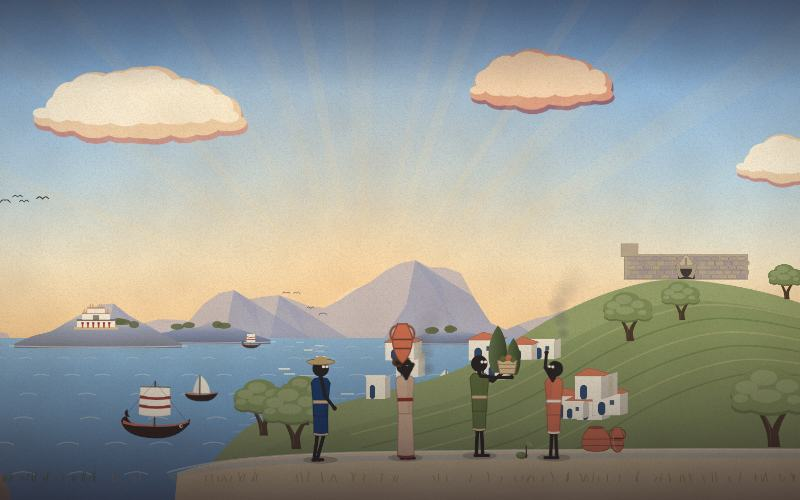
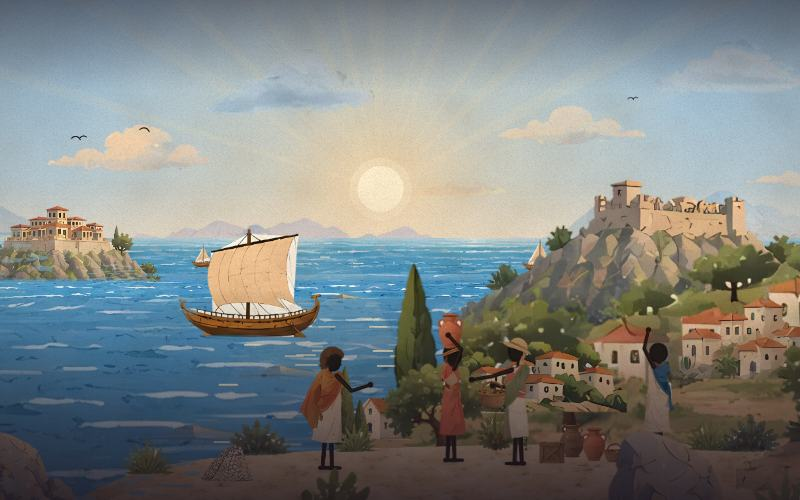
Chapter 1: illustrated, asset-driven scene with hybrid cutout rig
Replace the procedural Chapter 1 art with cut-outs from the four approved
production sheets, layered on 13 parallax planes (20 depth bands) and animated
in code. The player, UI, captions, timing and chapters 2-8 are unchanged.

- tools/assets: crop, Real-ESRGAN x4, background keying, costume arm in-paint
  and waist split, synthesised sand tile; PNG masters + runtime WebP under
  assets/global and assets/chapter-01, manifest + generated import map
- src/art/cutout.js: illustrated head/costume/props on a skeleton with tapered
  brush limbs; 8-key-pose walk with heel/toe roll, planted feet, hip bob,
  counter-swing, head stabilisation, lagging skirt
- src/scenes/birth.js: dawn bay to settlement life to the closing wide on
  Crete and Mycenae; cloud drift, sea shimmer, boat bob, sail breathe, sway,
  chimney smoke, gulls; chapter art preloaded before mount
- player: await a chapter's preload() and warm Chapter 1 on the title screen
- MISSING_ASSETS.md, README pipeline docs, QA tools (filmstrip, figstrip, fps,
  probe), Chapter 1 thumbnail, WebP support in the artifact packer

Claude-Session: https://claude.ai/code/session_01TPCe3NQpYd9FFqknt9SLFh

diff --git a/src/scenes/birth.js b/src/scenes/birth.js
@@ -69,7 +69,7 @@ export function build(sc) {
   // ================================================================ 1 sky (code: light only)
   const skyG = S.grad([[0, '#6D9CC6'], [0.5, '#A7C6DA'], [0.86, '#EAD9C0'], [1, '#F4E2C4']]);
   add(skyL, `<defs>${skyG.def}</defs><rect x="-1600" y="-700" width="4800" height="1700" fill="${skyG.ref}"/>`);
-  const dawnG = S.grad([[0, '#28305F'], [0.42, '#6E5A8A'], [0.74, '#D98E7A'], [0.9, '#F2B07E'], [1, '#F7CB8E']]);
+  const dawnG = S.grad([[0, '#343B6E'], [0.4, '#7A6390'], [0.7, '#E0977A'], [0.88, '#F5B97F'], [1, '#FAD498']]);
   const dawn = add(skyL, `<g><defs>${dawnG.def}</defs><rect x="-1600" y="-700" width="4800" height="1700" fill="${dawnG.ref}"/></g>`);
   const sunG = add(skyL, `<g>${S.sun({ x: 780, y: 330, r: 46, glowR: 640, core: '#FFF2D2', glow: '#FFD8A0' })}${S.rays({ x: 780, y: 330, n: 13, spread: 140, dir: -90, len: 1500, op: 0.16 })}</g>`);
 
@@ -156,11 +156,24 @@ export function build(sc) {
 
   // ================================================================ 9 the merchant ship (hull rocks, sail breathes)
   const shipW = 270;
-  const shipEl = add(shipL, `<g><g class="hull">${sprite('ship_merchant', { x: 0, y: 0, w: shipW, an: 'water' })}</g>
+  // the sail breathes: a copy of the ship art clipped to the sail outline, scaled about the mast
+  const sh = asset('ship_merchant');
+  const sailPts = [0, 1, 2, 3, 4, 5, 6].map((i) => sh.an['sail' + i].join(' ')).join(' ');
+  const shipH = (shipW * sh.h) / sh.w;
+  const sx0 = -sh.an.water[0] * shipW, sy0 = -sh.an.water[1] * shipH;
+  const mastX = sx0 + sh.an.mast[0] * shipW, mastY = sy0 + sh.an.mast[1] * shipH;
+  const shipEl = add(shipL, `<g><defs><clipPath id="sailClip" clipPathUnits="objectBoundingBox"><polygon points="${sailPts.split(' ').map(Number).reduce((a, v, i) => a + (i % 2 ? ',' : ' ') + v, '').trim()}"/></clipPath></defs>
+    <g class="hull">${sprite('ship_merchant', { x: 0, y: 0, w: shipW, an: 'water' })}
+      <g class="sail"><image href="${sh.src}" x="${sx0.toFixed(2)}" y="${sy0.toFixed(2)}" width="${shipW}" height="${shipH.toFixed(2)}" preserveAspectRatio="none" clip-path="url(#sailClip)"/></g></g>
     <g opacity=".5">${sprite('wave_overlay', { x: -shipW * 0.62, y: 6, w: 150 })}</g></g>`);
   const hull = shipEl.querySelector('.hull');
+  const sail = shipEl.querySelector('.sail');
   const SHIP_Y = 610;
-  gsap.set(shipEl, { x: -340, y: SHIP_Y });
+  gsap.set(shipEl, { x: -160, y: SHIP_Y });
+  sc.tick((t) => {
+    const k = 1 + 0.018 * (0.5 + 0.5 * Math.sin(t * 1.15)) + 0.006 * Math.sin(t * 2.7);
+    setAttr(sail, 'transform', `translate(${mastX.toFixed(2)} ${mastY.toFixed(2)}) scale(${k.toFixed(4)} ${(1 + (k - 1) * 0.35).toFixed(4)}) translate(${(-mastX).toFixed(2)} ${(-mastY).toFixed(2)})`);
+  });
   sc.tick((t) => setAttr(hull, 'transform', `translate(0 ${(Math.sin(t * 0.95) * 2.4).toFixed(2)}) rotate(${(Math.sin(t * 0.75 + 0.6) * 1.4).toFixed(2)})`));
 
   // ================================================================ 10 Mycenae on the mainland summit
@@ -287,20 +300,20 @@ export function build(sc) {
   cam.x = 720; cam.y = 560; cam.z = 1.3;
   sc.pan(0, 8, { x: 820, y: 520, z: 1.14 }, 'power2.out');
   sc.pan(8, 8, { x: 930, y: 505 }, 'sine.inOut');
-  sc.pan(16, 8.5, { x: 1430, y: 500, z: 1.12 }, 'power2.inOut');
+  sc.pan(15.6, 7.4, { x: 1430, y: 500, z: 1.12 }, 'power2.inOut');
   sc.pan(24.5, 9.5, { x: 1170, y: 430, z: 0.9 }, 'power2.inOut');
 
   // dawn → day: tint lifts, violet sky cross-fades to day, sun climbs, haze burns off
-  gsap.set(tint, { opacity: 0.55 });
-  tl.to(tint, { opacity: 0, duration: 10, ease: 'power1.inOut' }, 0);
+  gsap.set(tint, { opacity: 0.3 });
+  tl.to(tint, { opacity: 0, duration: 8, ease: 'power1.inOut' }, 0);
   tl.fromTo(dawn, { opacity: 1 }, { opacity: 0, duration: 11, ease: 'power1.inOut' }, 0);
   tl.fromTo(sunG, { y: 150 }, { y: 0, duration: 10, ease: 'power2.out' }, 0.2);
-  tl.fromTo(sunPath, { opacity: 0.9 }, { opacity: 0.35, duration: 12, ease: 'sine.inOut' }, 0);
-  tl.fromTo(glit, { opacity: 0.3 }, { opacity: 1, duration: 5, ease: 'power1.in' }, 3);
+  tl.fromTo(sunPath, { opacity: 1 }, { opacity: 0.4, duration: 13, ease: 'sine.inOut' }, 0);
+  tl.fromTo(glit, { opacity: 0.55 }, { opacity: 1, duration: 4, ease: 'power1.in' }, 1.5);
   tl.fromTo(mist, { opacity: 1 }, { opacity: 0.18, duration: 14, ease: 'power1.inOut' }, 1);
 
   // the merchant ship crosses the bay
-  tl.to(shipEl, { x: 830, y: SHIP_Y + 22, duration: 16, ease: 'sine.inOut' }, 5.5);
+  tl.fromTo(shipEl, { x: -160, y: SHIP_Y }, { x: 830, y: SHIP_Y + 22, duration: 17.5, ease: 'sine.inOut' }, 4.0);
 
   // watchers: the elder points out to sea, the child looks up and around
   elder.go(tl, 3.4, 1.3, { armF: 82, elbowF: 6, lean: 3, head: -3 });
@@ -320,21 +333,21 @@ export function build(sc) {
   farmer.go(tl, 21.3, 1.0, { armF: 80, elbowF: 8, head: -3 });
   farmer.go(tl, 25.2, 1.0, { armF: 8, elbowF: 14, head: 0 });
   // the trader comes ashore from the landing and gestures as he talks
-  tl.set(trader.p, { opacity: 0 }, 0);
-  tl.to(trader.p, { opacity: 1, duration: 0.5, ease: 'none' }, 20.2);
+  trader.p.opacity = 0;
+  tl.fromTo(trader.p, { opacity: 0 }, { opacity: 1, duration: 0.5, ease: 'none', immediateRender: false }, 20.2);
   trader.walk(tl, 20.3, 1300, 4.2, { ease: 'sine.out' });
   trader.go(tl, 24.6, 0.9, 'talk');
   tl.to(trader.p, { elbowF: 92, duration: 0.42, yoyo: true, repeat: 5, ease: 'sine.inOut' }, 25.5);
   trader.go(tl, 28.4, 1.0, { armF: 10, elbowF: 18, lean: 1 });
   // the planter kneels to set a sapling, stands, and waves to the ship
   planter.set({ armF: 20, elbowF: 18, armB: 14, elbowB: 18 });
-  planter.go(tl, 15.8, 1.6, 'crouch');
-  tl.to(planter.p, { armF: 70, elbowF: 40, duration: 0.5, yoyo: true, repeat: 3, ease: 'sine.inOut' }, 17.6);
-  planter.go(tl, 21.2, 1.4, { legF: 3, kneeF: 0, footF: 0, legB: -3, kneeB: 0, footB: 0, lean: 0, head: 0, armF: 8, elbowF: 16, armB: -6, elbowB: 12 });
-  planter.go(tl, 22.5, 0.8, 'wave');
-  tl.to(planter.p, { elbowF: 58, duration: 0.42, yoyo: true, repeat: 5, ease: 'sine.inOut' }, 23.3);
-  planter.go(tl, 26.0, 0.9, { armF: 8, elbowF: 16, lean: 0, head: 0 });
-  tl.fromTo(sapling.firstElementChild, { scale: 0.2, opacity: 0, transformOrigin: '18% 92%' }, { scale: 1, opacity: 1, duration: 1.6, ease: 'back.out(1.8)' }, 18.4);
+  planter.go(tl, 18.6, 1.4, 'crouch');
+  tl.to(planter.p, { armF: 70, elbowF: 40, duration: 0.45, yoyo: true, repeat: 3, ease: 'sine.inOut' }, 20.0);
+  planter.go(tl, 22.2, 1.2, { legF: 3, kneeF: 0, footF: 0, legB: -3, kneeB: 0, footB: 0, lean: 0, head: 0, armF: 8, elbowF: 16, armB: -6, elbowB: 12 });
+  planter.go(tl, 23.4, 0.7, 'wave');
+  tl.to(planter.p, { elbowF: 58, duration: 0.4, yoyo: true, repeat: 5, ease: 'sine.inOut' }, 24.1);
+  planter.go(tl, 26.6, 0.9, { armF: 8, elbowF: 16, lean: 0, head: 0 });
+  tl.fromTo(sapling.firstElementChild, { scale: 0.2, opacity: 0, transformOrigin: '18% 92%' }, { scale: 1, opacity: 1, duration: 1.6, ease: 'back.out(1.8)', immediateRender: true }, 20.6);
 
   // closing wide: the first palace worlds
   const lblC = add(crete, S.mapLabel({ x: creteX, y: creteY - 150, dx: 0, dy: -70, title: 'CRETE', note: 'The Minoans', size: 24 }));

diff --git a/src/art/library.gen.js b/src/art/library.gen.js
@@ -165,7 +165,7 @@ export const LIB = {
   sea_band_far: { src: a45, w: 902, h: 144, path: 'global/environment/sea_band_far' },
   sea_tile_base: { src: a46, w: 3072, h: 80, path: 'global/environment/sea_tile_base' },
   ship_boat_small: { src: a47, w: 459, h: 429, path: 'global/environment/ship_boat_small', an: {"water":[0.5098,0.9557]} },
-  ship_merchant: { src: a48, w: 670, h: 515, path: 'global/environment/ship_merchant', an: {"mast":[0.4866,0.1417],"water":[0.4985,0.9573]} },
+  ship_merchant: { src: a48, w: 670, h: 515, path: 'global/environment/ship_merchant', an: {"mast":[0.4866,0.1417],"sail0":[0.2179,0.2272],"sail1":[0.4866,0.1417],"sail2":[0.8388,0.0485],"sail3":[0.8269,0.1417],"sail4":[0.803,0.7476],"sail5":[0.5104,0.7786],"sail6":[0.2358,0.7709],"water":[0.4985,0.9573]} },
   shrub_a: { src: a49, w: 311, h: 173, path: 'global/environment/shrub_a' },
   shrub_b: { src: a50, w: 246, h: 192, path: 'global/environment/shrub_b' },
   shrub_c: { src: a51, w: 177, h: 192, path: 'global/environment/shrub_c' },

diff --git a/src/art/cutout.js b/src/art/cutout.js
@@ -88,7 +88,7 @@ export const CPOSES = {
   wave:    { armF: 150, elbowF: 24, armB: -6, elbowB: 12, lean: -2, head: -6 },
   talk:    { armF: 46, elbowF: 64, armB: 10, elbowB: 34, lean: 2, head: 1 },
   offer:   { armF: 62, elbowF: 58, armB: 52, elbowB: 62, lean: 4, head: 4 },
-  carryHead: { armF: 168, elbowF: 132, armB: -6, elbowB: 14, lean: -1, head: 0 },
+  carryHead: { armF: 158, elbowF: 64, armB: -6, elbowB: 14, lean: -1, head: 0 },
   carryHip:  { armB: 36, elbowB: 62 },
   sit:     { legF: 86, kneeF: 84, footF: 0, legB: 80, kneeB: 88, footB: 0, armF: 34, elbowF: 66, armB: 26, elbowB: 70, lean: 4, head: 2, drop: 31, plant: 0 },
   crouch:  { legF: 62, kneeF: 104, footF: -6, legB: -2, kneeB: 96, footB: 34, lean: 34, head: 16, armF: 48, elbowF: 18, armB: 30, elbowB: 26, drop: 0, plant: 1 },

diff --git a/tools/assets/extract_ch01.py b/tools/assets/extract_ch01.py
@@ -154,7 +154,7 @@ def main():
     # ships (sheet 1, checker background; sails forced in with polygons)
     piece('global/environment/ship_merchant', 1, (1060, 450, 176, 134), thr=9, holes=None, rt=1.0,
           add=[[(1101, 481), (1146, 470), (1205, 458), (1203, 470), (1199, 548), (1150, 552), (1104, 551)]],
-          anchors={'water': (1148, 575), 'mast': (1146, 470)}, note='sheet1 merchant ship')
+          anchors={'water': (1148, 575), 'mast': (1146, 470), 'sail0': (1101, 481), 'sail1': (1146, 470), 'sail2': (1205, 458), 'sail3': (1203, 470), 'sail4': (1199, 548), 'sail5': (1150, 552), 'sail6': (1104, 551)}, note='sheet1 merchant ship (sail* = sail outline for the billow clip)')
     piece('global/environment/ship_boat_small', 1, (1240, 468, 124, 114), thr=9, holes=None, rt=1.0,
           anchors={'water': (1303, 575)}, note='sheet1 fishing boat')
 

diff --git a/MISSING_ASSETS.md b/MISSING_ASSETS.md
@@ -1,0 +1,96 @@
+# Missing assets — Chapter 1 vertical slice
+
+These are the assets Chapter 1 needs that the four approved production sheets do not supply cleanly. Each one is
+currently covered by a fallback built from the supplied art (noted per item); nothing falls back to procedural drawing.
+
+Conventions follow the production manifest: PNG masters with straight (unpremultiplied) alpha, sRGB, lit from the upper
+left like the sheets, painted in the sheets' gouache style and palette (ivory, parchment, sandstone, terracotta, muted red,
+bronze, olive, deep blue, charcoal). Sizes are pixels at 2× design scale (1 design unit = 2 px), the size needed for
+sharp playback on retina screens with the camera pushed in.
+
+---
+
+## 1. Market stall
+
+| | |
+|---|---|
+| **Files** | `assets/chapter-01/props/ch01_prop_market_stall_frame.png`, `assets/chapter-01/props/ch01_prop_market_stall_awning.png` |
+| **Dimensions** | 1400 × 1100 each, on one shared registered canvas |
+| **Transparency** | Yes, fully transparent background, no cast shadow baked in |
+| **Visual description** | The stall from Keyframe 02 (Settlement Life). A front three-quarter view. It has four rough wooden poles, a plank table, a striped linen awning in ivory and faded terracotta with a slight sag and frayed front edge, two baskets of olives and figs on the table, and an amphora and a pithos standing beneath. |
+| **Where it appears** | On the right beach, behind the trader (world x ≈ 1250, ground y ≈ 870), during the "Fishers, farmers and traders…" beat (16.6–24.6 s) and in the closing wide shot. |
+| **Rigging needed** | Two layers. The frame (poles, table, goods) is static. The awning pivots along its top back edge, so code can add a slow wind sway (±1.5°) and a slight scale-Y breathing. |
+| **Poses / states** | Awning `rest` plus awning `billow` (lifted by a gust) for a cross-fade. |
+| **Current fallback** | A loose prop group (pithos, amphora, crate, basket) on the sand. |
+
+## 2. Merchant ship as separate layers
+
+| | |
+|---|---|
+| **Files** | `assets/global/environment/ship_merchant_hull.png`, `ship_merchant_mast.png`, `ship_merchant_sail_rest.png`, `ship_merchant_sail_full.png` |
+| **Dimensions** | 2000 × 1540 each, on one shared registered canvas (same framing as the supplied `ship_merchant`) |
+| **Transparency** | Yes |
+| **Visual description** | The approved merchant ship (sheet 1, "merchant_ship.png"). It has a curved brown hull with a carved stern, a rail of light planks, a single mast and yard, rigging lines, and a large cream square sail with seams. The hull is painted without the sail. The mast and yard are a separate piece. The sail comes in two states: rest (slightly slack, gentle folds) and full (bellied forward with wind, highlights on the curve). |
+| **Where it appears** | Crosses the bay from left to right from 4.0 to 21.5 s and is held in the closing wide shot. The same art will be reused in chapter 5. |
+| **Rigging needed** | Hull: code bob and rock about the waterline (anchor at the waterline centre). Sail: pivots at the yard, cross-fades between rest and full, with a code scale-X billow about the mast. |
+| **Poses / states** | Sail `rest` and `full`. Optional `furled` for the beached state. |
+| **Current fallback** | The single supplied ship image, with a sail "breathe" made from a clipped copy of the same art scaled about the mast. |
+
+## 3. Olive sapling (growth stages)
+
+| | |
+|---|---|
+| **Files** | `assets/global/environment/tree_olive_sapling_01.png`, `_02.png`, `_03.png` |
+| **Dimensions** | 300 × 420 each, same canvas, base anchor at bottom centre |
+| **Transparency** | Yes |
+| **Visual description** | A young olive tree planted in a small mound of freshly dug ochre earth. Stage 01 is a single sprig with four leaves. Stage 02 has a thin twisted stem with 3 small silver-green leaf clusters. Stage 03 is a sapling about 40 cm tall with 6–8 clusters. The style matches the sheets' olive trees: dark olive green leaves with lighter silver-green highlights, and a brown trunk. |
+| **Where it appears** | Planted by the planter on the beach (x ≈ 1846) from 18.6 to 22.4 s, and visible to the end of the chapter. |
+| **Rigging needed** | None. Stages swap in code with a small scale overshoot, plus a code-driven sway pivoting at the base. |
+| **Poses / states** | 3 growth stages. |
+| **Current fallback** | The `olive_branch` prop stood upright and scaled up from the ground. |
+
+## 4. Gull flap cycle
+
+| | |
+|---|---|
+| **File** | `assets/global/fx/birds_gull_sheet.png` (frames in one row) |
+| **Dimensions** | 6 frames × 160 × 80 (sheet 960 × 80) |
+| **Transparency** | Yes |
+| **Visual description** | One dark charcoal gull silhouette in side view in the sheets' brush style. There are 6 frames of one wingbeat: wings high, mid-down, down, mid-up, glide, and glide-tilted. |
+| **Where it appears** | Gulls crossing the sky throughout the chapter (cloud plane). |
+| **Rigging needed** | None. The frames swap at 8–10 fps and code moves each bird along its path. |
+| **Poses / states** | The 6-frame flap cycle. |
+| **Current fallback** | Two of the supplied flock silhouettes alternate as a two-frame flap. |
+
+## 5. Shore foam strip
+
+| | |
+|---|---|
+| **File** | `assets/global/environment/shore_foam_strip.png` |
+| **Dimensions** | 2048 × 128, tiles horizontally |
+| **Transparency** | Yes |
+| **Visual description** | Where the sea meets the sand: a band of wet darker sand fading upward, a broken line of white foam with small lace gaps, and pale turquoise shallow water at the bottom edge. It is painted in the sheets' gouache style. |
+| **Where it appears** | Along the waterline of the right beach and the left headland. |
+| **Rigging needed** | None. Two copies slide slowly against each other in code to animate the foam. |
+| **Poses / states** | One state. Optional second variation for alternation. |
+| **Current fallback** | `wave_overlay` sprites along the waterline, plus a code gradient for wet sand. |
+
+## 6. Native-resolution versions of the large layers
+
+The sheets are about 1500 px wide, so each large layer was cut from a 160–260 px region and upscaled ×4 by the extraction
+tool (`tools/assets`). They read well, but they soften when the camera pushes in on a retina screen. The same approved art
+is needed at native size. Every item below has a transparent background (sea and sand tiles excepted) and must match the
+approved sheet piece exactly in content, so the slice composition stays valid.
+
+| File | Dimensions | Transparency | Visual description (as approved) | Where it appears | Rigging | States |
+|---|---|---|---|---|---|---|
+| `chapter-01/backgrounds/ch01_bg_hillside_terraces.png` | 3600 × 1500 | Yes | Terraced hillside rising to one side: olive and ochre field terraces, three white houses with terracotta roofs, olive trees, a cypress | Right-hand hill behind the beach (hillside plane, parallax 0.74) | None (static) | 1 |
+| `chapter-01/backgrounds/ch01_bg_settlement.png` | 1800 × 700 | Yes | Cluster of white cubic houses with terracotta roofs among olive and bush greenery on a sandy rise | Village on the hill slope (settlement plane, 0.8) | None. Chimney points marked in a note for the smoke emitters | 1 |
+| `chapter-01/props/ch01_prop_mycenae_citadel.png` | 2400 × 1250 | Yes | Cyclopean-walled citadel with towers on a grey rocky summit spotted with green scrub | Mainland summit (Mycenae plane, 0.6). Labelled in the closing wide shot | None | 1 |
+| `chapter-01/props/ch01_prop_crete_island_palace.png` | 2200 × 950 | Yes | Minoan palace (terraced white and ochre blocks, terracotta roofs) on a rocky island with cypresses | Left of the bay (sea plane). Labelled in the closing wide shot | None. Waterline should be soft-edged | 1 |
+| `chapter-01/backgrounds/ch01_bg_beach_right.png` | 2600 × 1100 | Yes | Sandy beach rise with two olive trees, agave and a cypress at the right | Right edge of the beach | None | 1 |
+| `global/environment/mountains_far_soft.png` | 6000 × 360 | Yes | Continuous range of pale lilac-blue mountains with soft ridges | Far mountain plane (0.12) | None. Tiles horizontally | 1 |
+| `global/environment/sea_tile_base.png` | 4096 × 512 | No | Deep Aegean blue water with short white wave strokes, seamless in both axes | Sea plane, stacked in perspective rows | None | 1 |
+| `global/environment/ground_sand_tile.png` | 2048 × 512 | No | Warm sandstone sand with sparse pebbles and dry grass flecks, seamless in both axes | Walkable beach and headland ground | None | 1 |
+| `global/costumes/<costume>_torso.png` and `_skirt.png` for chiton_villager, peplos_villager, chiton_sailor, himation_merchant, himation_elite, chiton_youth | 420 × 1080 per piece, torso and skirt sharing one canvas | Yes | The six costume variations from sheet 4, painted without arms, head or legs. The skirt continues about 30 px up under the torso so the waist seam can swing | All villagers | Torso is rigid. Skirt pivots at the waist (skew/rotate in code). Anchors: neck, shoulders L/R, waist, hem | 1 each |
+| `global/heads/<head>.png` for head_neutral, hair_short, hair_curls, headband, veil, hat_petasos, hat_hood, beard_long | 400 × 600 | Yes | The heads row from sheet 4 (sheet 3 for the beard): charcoal skull with hair or headwear and neck stick, facing right | All villagers | Pivot at the neck point. Skull diameter identical across the set | 1 each |

diff --git a/README.md b/README.md
@@ -38,16 +38,32 @@ npm run build && npm run preview   # production build → http://localhost:4173/
 
 ## How it is built
 
-- **Stack** — Vite, vanilla JS (ES modules), SVG for all art, GSAP for timelines, Canvas 2D for particles, WebAudio for sound. No frameworks, no image files, no audio files.
-- **Assets** — every scene is drawn in code. `src/art/` holds the generators: a jointed **figure rig** (`figure.js`, with walk/run cycles and pose library), a **horse rig** (`horse.js`, with wings for Pegasus), **props**, a **scenery library** (temples, columns, ships, mountains, sea, clouds…) and hand-simplified **map geography** (`geo.js`). Chapter thumbnails are rendered from the live scenes (`npm run thumbs`).
+- **Stack** — Vite, vanilla JS (ES modules), SVG for all art, GSAP for timelines, Canvas 2D for particles, WebAudio for sound. No frameworks and no audio files. Chapter 1 uses illustrated WebP cut-outs (see below); chapters 2–8 are drawn in code.
+- **Assets (chapters 2–8)** — drawn in code. `src/art/` holds the generators: a jointed **figure rig** (`figure.js`, with walk/run cycles and pose library), a **horse rig** (`horse.js`, with wings for Pegasus), **props**, a **scenery library** (temples, columns, ships, mountains, sea, clouds…) and hand-simplified **map geography** (`geo.js`). Chapter thumbnails are rendered from the live scenes (`npm run thumbs`).
 - **Animation** — each chapter is one paused GSAP master timeline (`src/scenes/*.js`). The player scrubs, plays and pauses that timeline, so pause/seek/replay work for free. A `Scene` (`src/engine/scene.js`) stacks SVG layers with different parallax depths under one camera, runs ambient loops from a shared clock, and renders the rigs each frame. Camera shake, lightning flashes, iris and split-screen wipes are timeline events.
 - **Audio** — fully procedural (`src/engine/audio.js`): sea, wind, crowd, fire and night beds; a generative lyre in Dorian / Phrygian / Mixolydian / Hijaz modes; frame drums; one-shot cues (thunder, clash, applause, horn, gallop…) triggered from the timelines. It starts only after the first click, is muted with `M`, and the experience works without it.
 - **Accessibility and robustness** — captions on by default, full keyboard control, focus rings, `aria` on the timeline and toggles, `prefers-reduced-motion` (camera shake off, fades instead of page wipe), pauses when the tab is hidden.
 
+## Chapter 1: asset-driven slice
+
+Chapter 1 is built entirely from illustrated cut-outs taken from the four approved production sheets (`assets/_source/ch01_sheet_0{1..4}.webp`). Code only places, layers and animates them. Code draws light and atmosphere (sky gradient, sun, rays, haze, glints, shadows, grading), the map labels and the limbs.
+
+- **Library** — `assets/global/{rig,heads,costumes,props,environment,fx}` and `assets/chapter-01/{backgrounds,props}`. Each piece has a lossless PNG master next to its runtime WebP. `assets/manifest.ch01.json` records sizes and anchors (neck, shoulders, waist, hem, tree base, ship waterline, sail outline…). `src/art/library.gen.js` is the generated import map.
+- **Extraction** (`tools/assets/`) — crop each region and upscale ×4 with Real-ESRGAN (anime_6B). Then key out the flattened parchment or checker background: flood-fill from the border in Lab space, drop enclosed gaps, feather the edge, remove the colour fringe. Costumes have the arms in-painted away and are split at the waist into a torso piece and a swinging skirt piece. Heads keep the neck stick and a measured skull size.
+  ```bash
+  pip install -r tools/assets/requirements.txt
+  curl -L -o ~/.cache/esrgan/RealESRGAN_x4plus_anime_6B.pth https://github.com/xinntao/Real-ESRGAN/releases/download/v0.2.2.4/RealESRGAN_x4plus_anime_6B.pth
+  cd tools/assets && python3 extract_ch01.py && python3 extract_cast.py && cd ../.. && python3 tools/assets/gen_module.py
+  ```
+- **Hybrid cutout rig** (`src/art/cutout.js`) — illustrated head (with hair or hat), costume torso, swinging skirt, optional cloak and held props, on a code skeleton. The limbs are tapered brush strokes in the sheets' warm charcoal with a faint sheen, and the fists and feet are rounded brush ends. The walk interpolates 8 key poses with a pose-hold ease (limited-animation feel): alternating arms and legs, bent knees, heel strike and toe push-off, a planted support foot (stride derived from leg geometry), hip bob, shoulder counter-swing, head stabilisation and a lagging skirt. Poses: stand, relaxed, point, wave, talk, offer, carryHead, sit, crouch.
+- **Scene** (`src/scenes/birth.js`) — 20 depth bands on 13 parallax planes: sky 0.03, clouds 0.06, mountains 0.12, islands 0.2, sea (with Crete) 0.25, distant boats and haze 0.3, ship 0.5, Mycenae 0.6, hillside 0.74, settlement 0.8, trees 0.86, ground (outcrop, beach, vegetation, villagers, props) 1.0, and front framing 1.3. Ambient motion runs from the scene clock: cloud drift, sea-row shimmer and drifting highlights, boat bob and rock, sail breathe, tree and plant sway from the base, looping chimney smoke, gulls with a two-frame flap, and dust motes. The chapter's art is decoded before it mounts (`preload()`) and warmed while the title screen is showing.
+- **Missing art** — see `MISSING_ASSETS.md`.
+- **Dev previews** — `/tools/preview/rig.html` (cast line-up and walk cycle; `?mode=walk&c=<costume>&h=<head>`).
+
 ## Publishing as a single-file Artifact
 
 ```bash
-npm run artifact            # → dist-artifact/ancient-greece.html (≈1 MB: JS, CSS, fonts and posters all inlined)
+npm run artifact            # → dist-artifact/ancient-greece.html (JS, CSS, fonts, posters and the Chapter 1 WebP art all inlined)
 ```
 
 The artifact host allows no external loads, so the packer bundles everything into one HTML fragment (`<title>`, `<style>`, markup, one `<script>`). Storage access is guarded because the host's frame is sandboxed, and the Full screen button hides itself when fullscreen is unavailable.
@@ -59,6 +75,10 @@ node tools/qa-artifact.mjs [url] [WxH]   # drives the packed build inside a stri
 node tools/qa.mjs [url]     # end-to-end: title → play → pause → scrub → menu → chapters → end card
 node tools/perf.mjs [url]   # scene build time, node counts, per-frame JS cost
 node tools/shot.mjs <url> out.png [w h waitMs]   # one-off screenshot
+node tools/filmstrip.mjs <url> out.png [from to step w h]   # contact sheet of a chapter over time
+node tools/figstrip.mjs <url> <figIndex> <from> <to> <step> out.png   # crop that follows one rig figure (walk QA)
+node tools/fps.mjs <url> [chapter] [w h]   # playback frame-time stats
+node tools/probe.mjs <url> '[[x,y],…]'   # which images sit under given screen points
 ```
 
 Handy URL parameters: `?c=5&t=20&paused=1&ui=0` opens chapter 5 paused at 20 s with the controls hidden.
